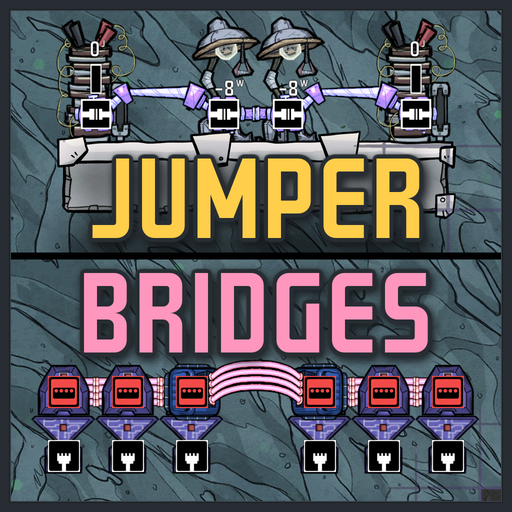
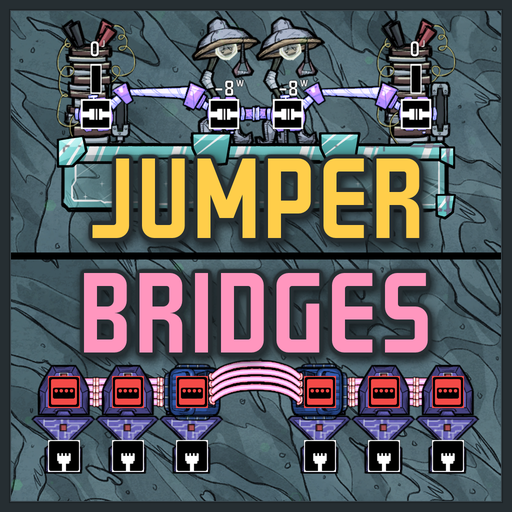
Jumper Bridges: new preview on glass tiles in the game's colours, made by tools/make_preview.py from the preview tests
Claude-Session: https://claude.ai/code/session_01CpG8kZkqYa73dtXxjWjafe

diff --git a/mods/jumper-bridges/tools/make_preview.py b/mods/jumper-bridges/tools/make_preview.py
@@ -1,0 +1,135 @@
+"""Makes the Workshop preview, publish/preview.png, from the preview tests' screenshots.
+
+Take the shots first (the game must be closed):
+
+    pwsh common/tools/TestRunner/Invoke-OniTests.ps1 -Mods JumperBridges -Filter "*Preview*" -Label jb-preview
+
+then, from the repo root:
+
+    python mods/jumper-bridges/tools/make_preview.py common/tools/TestRunner/runs/jb-preview-<stamp>
+
+(a second run folder after the first takes the power shots from that run instead).
+
+The image is the power setup in the power overlay over the automation setup in the automation
+overlay, a black bar between, both at one cell size and each half lined up on its highlighted wire
+row. Each half keeps the overlay's pixels only where the overlay highlights something the setup put
+there (wires, bridge ends, port icons, readouts) and takes the scene's own colours from the
+normal-view shot of the same frame everywhere else; the shot of the same overlay frame with the setup
+gone tells the setup's highlights from what the overlay draws on its own (its grid, dark patches).
+The title goes on with common/tools/MakePreview/title_preview.py, centred on the bar.
+"""
+import argparse
+import os
+import re
+import subprocess
+import sys
+import warnings
+
+import numpy as np
+from PIL import Image, ImageFilter
+from scipy import ndimage
+
+HERE = os.path.dirname(os.path.abspath(__file__))
+MOD = os.path.dirname(HERE)
+REPO = os.path.dirname(os.path.dirname(MOD))
+TITLE_TOOL = os.path.join(REPO, "common", "tools", "MakePreview", "title_preview.py")
+
+SIZE = 1024       # the composed background; the title tool scales it to 512
+BAR = 14
+CELL = 128        # pixels per game cell in the background
+HALF = (SIZE - BAR) // 2
+AT = 265          # where a half's highlighted wire row sits, in pixels down the half
+
+# Test name, cells across, the highlighted row (from the setup's bottom), where it sits in its half.
+POWER = ("Power", "power", 6, 1, AT - 37)
+AUTOMATION = ("Automation", "automation", 7, 1, AT)
+
+TITLE = ["--title", "Jumper Bridges", "--lines", "Jumper|Bridges", "--style", "serif", "--font", "graystroke",
+         "--position", "0.5215", "--width", "0.7", "--fill", "255,206,74", "--fill2", "255,150,190"]
+
+
+def crop_of(run, test):
+    """The setup's rectangle in the screenshots, from the "crop" line the test logs."""
+    pattern = re.compile(r"Preview\." + test + r": crop (\d+),(\d+),(\d+),(\d+)")
+    with open(os.path.join(run, "Player.log"), encoding="utf-8", errors="replace") as log:
+        for line in log:
+            match = pattern.search(line)
+            if match:
+                return tuple(int(v) for v in match.groups())
+    sys.exit("no crop line for Preview." + test + " in " + run)
+
+
+def coloured(overlay, normal, empty, crop, cell):
+    """The overlay frame with the normal view's colours put back wherever the overlay only greys the scene."""
+    o = np.asarray(Image.open(overlay).convert("RGB"), dtype=np.float32)
+    n = np.asarray(Image.open(normal).convert("RGB"), dtype=np.float32)
+    e = np.asarray(Image.open(empty).convert("RGB"), dtype=np.float32)
+    luma = n @ np.array([0.299, 0.587, 0.114], dtype=np.float32)
+    # The overlay's grey of the scene: a linear map of the normal view's luma, fitted on the whole frame
+    # (the background dominates), then refitted without the pixels that clearly do not follow it.
+    target = o.mean(axis=2)
+    keep = np.ones_like(target, dtype=bool)
+    for _ in range(3):
+        # A million points on a straight line: polyfit's conditioning warning is noise here.
+        with warnings.catch_warnings():
+            warnings.simplefilter("ignore")
+            a, b = np.polyfit(luma[keep].ravel(), target[keep].ravel(), 1)
+        resid = np.abs(o - (a * luma + b)[..., None]).max(axis=2)
+        keep = resid < 30
+    sat = o.max(axis=2) - o.min(axis=2)
+    highlight = (resid > 45) | (sat > 40)
+    # Only what the setup changed in the overlay frame.
+    changed = np.abs(o - e).max(axis=2) > 24
+    highlight &= ndimage.binary_dilation(changed, iterations=2)
+    # Fill what the highlights enclose (a port icon's black background over a dark building).
+    highlight = ndimage.binary_fill_holes(highlight)
+    # Only on and around the setup: a quarter cell at the sides and below, a cell above for the readouts.
+    x0, y0, x1, y1 = crop
+    region = np.zeros_like(highlight)
+    region[max(0, int(y0 - cell)):int(y1 + cell / 4), max(0, int(x0 - cell / 4)):int(x1 + cell / 4)] = True
+    highlight &= region
+    m = Image.fromarray((highlight * 255).astype(np.uint8))
+    m = m.filter(ImageFilter.MinFilter(3)).filter(ImageFilter.MaxFilter(3))
+    m = m.filter(ImageFilter.MaxFilter(5)).filter(ImageFilter.MinFilter(3)).filter(ImageFilter.GaussianBlur(1.5))
+    w = np.asarray(m, dtype=np.float32)[..., None] / 255
+    return Image.fromarray((o * w + n * (1 - w)).clip(0, 255).astype(np.uint8))
+
+
+def half(run, spec):
+    """One half of the background: the setup centred across, its highlighted row at its height."""
+    test, shot, cells_w, row, at = spec
+    crop = crop_of(run, test)
+    base = os.path.join(run, "artifacts", "JumperBridges.Tests.Preview." + test + "-" + shot)
+    x0, y0, x1, y1 = crop
+    cell = (x1 - x0) / cells_w
+    im = coloured(base + "-ports.png", base + "-normal.png", base + "-empty.png", crop, cell)
+    k = CELL / cell
+    w, h = SIZE / k, HALF / k
+    cx = (x0 + x1) / 2
+    top = y1 - (row + 0.5) * cell - at / k
+    box = (round(cx - w / 2), round(top), round(cx + w / 2), round(top + h))
+    if box[0] < 0 or box[1] < 0 or box[2] > im.width or box[3] > im.height:
+        sys.exit("the " + shot + " half reaches outside its screenshot: " + str(box))
+    return im.crop(box).resize((SIZE, HALF), Image.LANCZOS)
+
+
+def main():
+    parser = argparse.ArgumentParser(description=__doc__, formatter_class=argparse.RawDescriptionHelpFormatter)
+    parser.add_argument("run", help="the preview tests' run folder")
+    parser.add_argument("power_run", nargs="?", help="a run folder to take the power shots from instead")
+    parser.add_argument("--out", default=os.path.join(MOD, "publish", "preview.png"))
+    parser.add_argument("--background", help="also keep the untitled 1024px background here")
+    args = parser.parse_args()
+
+    image = Image.new("RGB", (SIZE, SIZE), (0, 0, 0))
+    image.paste(half(args.power_run or args.run, POWER), (0, 0))
+    image.paste(half(args.run, AUTOMATION), (0, SIZE - HALF))
+    background = args.background or os.path.splitext(args.out)[0] + "-background.png"
+    image.save(background)
+    subprocess.run([sys.executable, TITLE_TOOL] + TITLE + [background, args.out], check=True)
+    if not args.background:
+        os.remove(background)
+
+
+if __name__ == "__main__":
+    main()

diff --git a/mods/jumper-bridges/src/JumperBridges.Tests/Preview.cs b/mods/jumper-bridges/src/JumperBridges.Tests/Preview.cs
@@ -35,7 +35,7 @@ namespace JumperBridges.Tests
 		}
 
 		/// <summary>
-		/// Battery, Conductive Wire Bridge, lamp, lamp, Conductive Wire Bridge, battery on a granite
+		/// Battery, Conductive Wire Bridge, lamp, lamp, Conductive Wire Bridge, battery on a glass
 		/// floor, the two bridge ends on the side-by-side lamps joined by a wire drag.
 		/// </summary>
 		[OniTest("looks: preview, power bridges", Timeout = 90, Explicit = true), Layer(1)]
@@ -44,7 +44,7 @@ namespace JumperBridges.Tests
 			const int width = 6, height = 3;
 			Setup s = new Setup(t, width, height);
 			for (int x = 0; x < width; x++)
-				s.Build("Tile", x, 0, SimHashes.Granite);
+				s.Build("GlassTile", x, 0, SimHashes.Glass);
 			s.Build("Battery", 0, 1);
 			s.Build("FloorLamp", 2, 1, SimHashes.Gold);
 			s.Build("FloorLamp", 3, 1, SimHashes.Gold);
@@ -77,18 +77,22 @@ namespace JumperBridges.Tests
 				if (origin == Grid.InvalidCell)
 					t.Assert.Fail("no open stretch in front of granite back walls for a " + width + "x" + height + " setup");
 				t.Log("building at " + Cells.Describe(origin));
-				t.Cleanup(() =>
-				{
-					for (int dy = -1; dy <= height; dy++)
-						for (int dx = -1; dx <= width; dx++)
-						{
-							int cell = Grid.OffsetCell(origin, dx, dy);
-							foreach (ObjectLayer layer in new[] { ObjectLayer.LogicWire, ObjectLayer.Wire })
-								t.World.Destroy(Grid.Objects[cell, (int)layer]);
-						}
-					foreach (GameObject go in built)
-						t.World.Destroy(go);
-				});
+				t.Cleanup(Clear);
+			}
+
+			/// <summary>Takes the setup away: everything built, and the wires dragged in and around it.</summary>
+			private void Clear()
+			{
+				for (int dy = -1; dy <= height; dy++)
+					for (int dx = -1; dx <= width; dx++)
+					{
+						int cell = Grid.OffsetCell(origin, dx, dy);
+						foreach (ObjectLayer layer in new[] { ObjectLayer.LogicWire, ObjectLayer.Wire })
+							t.World.Destroy(Grid.Objects[cell, (int)layer]);
+					}
+				foreach (GameObject go in built)
+					t.World.Destroy(go);
+				built.Clear();
 			}
 
 			public GameObject Build(string id, int x, int y, SimHashes element = SimHashes.Copper, Orientation orientation = Orientation.Neutral)
@@ -142,6 +146,11 @@ namespace JumperBridges.Tests
 				group.GetType().GetProperty("alpha").SetValue(group, 1f);
 				yield return t.WaitRealSeconds(1);
 				yield return t.Screenshot(name + "-ports");
+				// The same overlay frame with the setup taken away: what the overlay draws on its own
+				// (its grid, dark patches), for telling the setup's highlights apart from it.
+				Clear();
+				yield return t.WaitRealSeconds(2);
+				yield return t.Screenshot(name + "-empty");
 			}
 
 			/// <summary>

diff --git a/mods/jumper-bridges/README.md b/mods/jumper-bridges/README.md
@@ -47,6 +47,10 @@ dotnet build ONI-Mods/mods/jumper-bridges/src/JumperBridges -c Release
 
 The build deploys the mod into the game's local mods folder. See `common/README.md` for the shared build and release tooling.
 
+## Workshop preview
+
+`publish/preview.png` is made from the explicit preview tests' screenshots (`src/JumperBridges.Tests/Preview.cs`) by `tools/make_preview.py`; its docstring has the two commands.
+
 ## Testing
 
 Automated in-game tests live in `src/JumperBridges.Tests` and run through the harness in `common/tools/TestRunner` (see its README): the game loads a fixture save, the tests build in a cleared area and drive the real wire tool, and the results land in a run folder.
